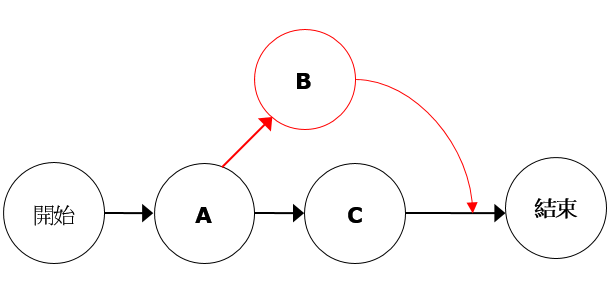
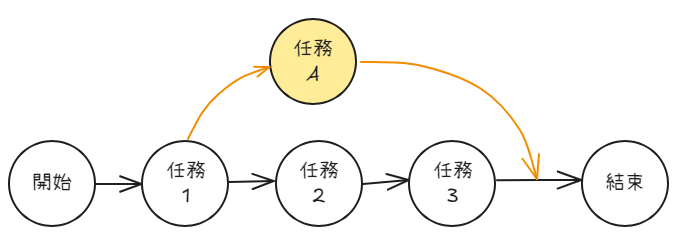
-

diff --git a/content/ch01/ch01.md b/content/ch01/ch01.md
@@ -10,7 +10,7 @@
 
 > 當程式以循序的方式執行，另一種常見的說法是：以**同步**（synchronous）的方式執行。當程式以併發的方式執行，則又稱為**非同步**（asynchronous）。
 
-## 話說從頭：處理序與執行緒
+## 處理序與執行緒
 
 從前從前，在還沒有執行緒（thread）這個概念的時候，作業系統本身與應用程式都是以類似接力賽跑的方式執行。也就是說，一件工作做完才接著做下一件；呼叫某個函式時，必須等該函式執行完畢，返回之後，呼叫端才能繼續下去。若將每一件工作用線段連接起來，結果就會像一條線，看起來像這樣：
 
@@ -38,7 +38,7 @@
 
 ![](images/async-call.png#center)
 
-如果以披薩店來比喻，就是當店裡唯一的燒烤師傅把批薩送進烤箱之後，店內還有其他烤箱，於是他不用閒著，可以立刻接著烤第二批。當電腦只有一顆 CPU，就像披薩店只有一位燒烤師傅，會經常需要在多個任務之間來回切換，相當忙碌。
+用一個常見的比喻來看：披薩店。當店裡唯一的燒烤師傅把批薩送進烤箱之後，店內還有其他烤箱，於是他不用閒著，可以立刻接著烤第二批。雖然有多個烤箱可以同時烘烤披薩，然而店內只有一名燒烤師傅，就像電腦只有一顆 CPU，會經常需要在多個任務之間來回切換，相當忙碌。
 
 ![](images/pizza-2.png#center)
 

diff --git a/content/ch01/ch01-ref.md b/content/ch01/ch01-ref.md
@@ -1,0 +1,9 @@
+# Chapter 1: 非同步程式設計與多執行緒
+
+作為軟體開發人員，我們經常努力使應用程式更快、更具響應性和更高效。實現這一目標的一種方法是使計算機能夠同時執行多個任務，最大化現有 CPU 核心的使用。多執行緒和非同步程式設計是常用於此任務的兩種技術。
+
+多執行緒允許計算機看起來像是同時執行多個任務，即使任務的數量超過 CPU 核心的數量。相對而言，非同步程式設計專注於在通常會使 CPU 等待的操作中優化 CPU 的使用，確保 CPU 保持活躍和高效。
+
+使計算機能夠同時執行多個任務是非常有用的。它有助於保持本地應用程式在工作時的響應性，並且對於構建能夠同時與多個客戶端互動的高性能伺服器至關重要。
+
+這兩種技術都可以用來創建響應式的客戶端應用程序或處理少量客戶端的伺服器。但當它們結合在一起時，可以大大提高性能，使伺服器能夠同時處理數千個客戶端。
